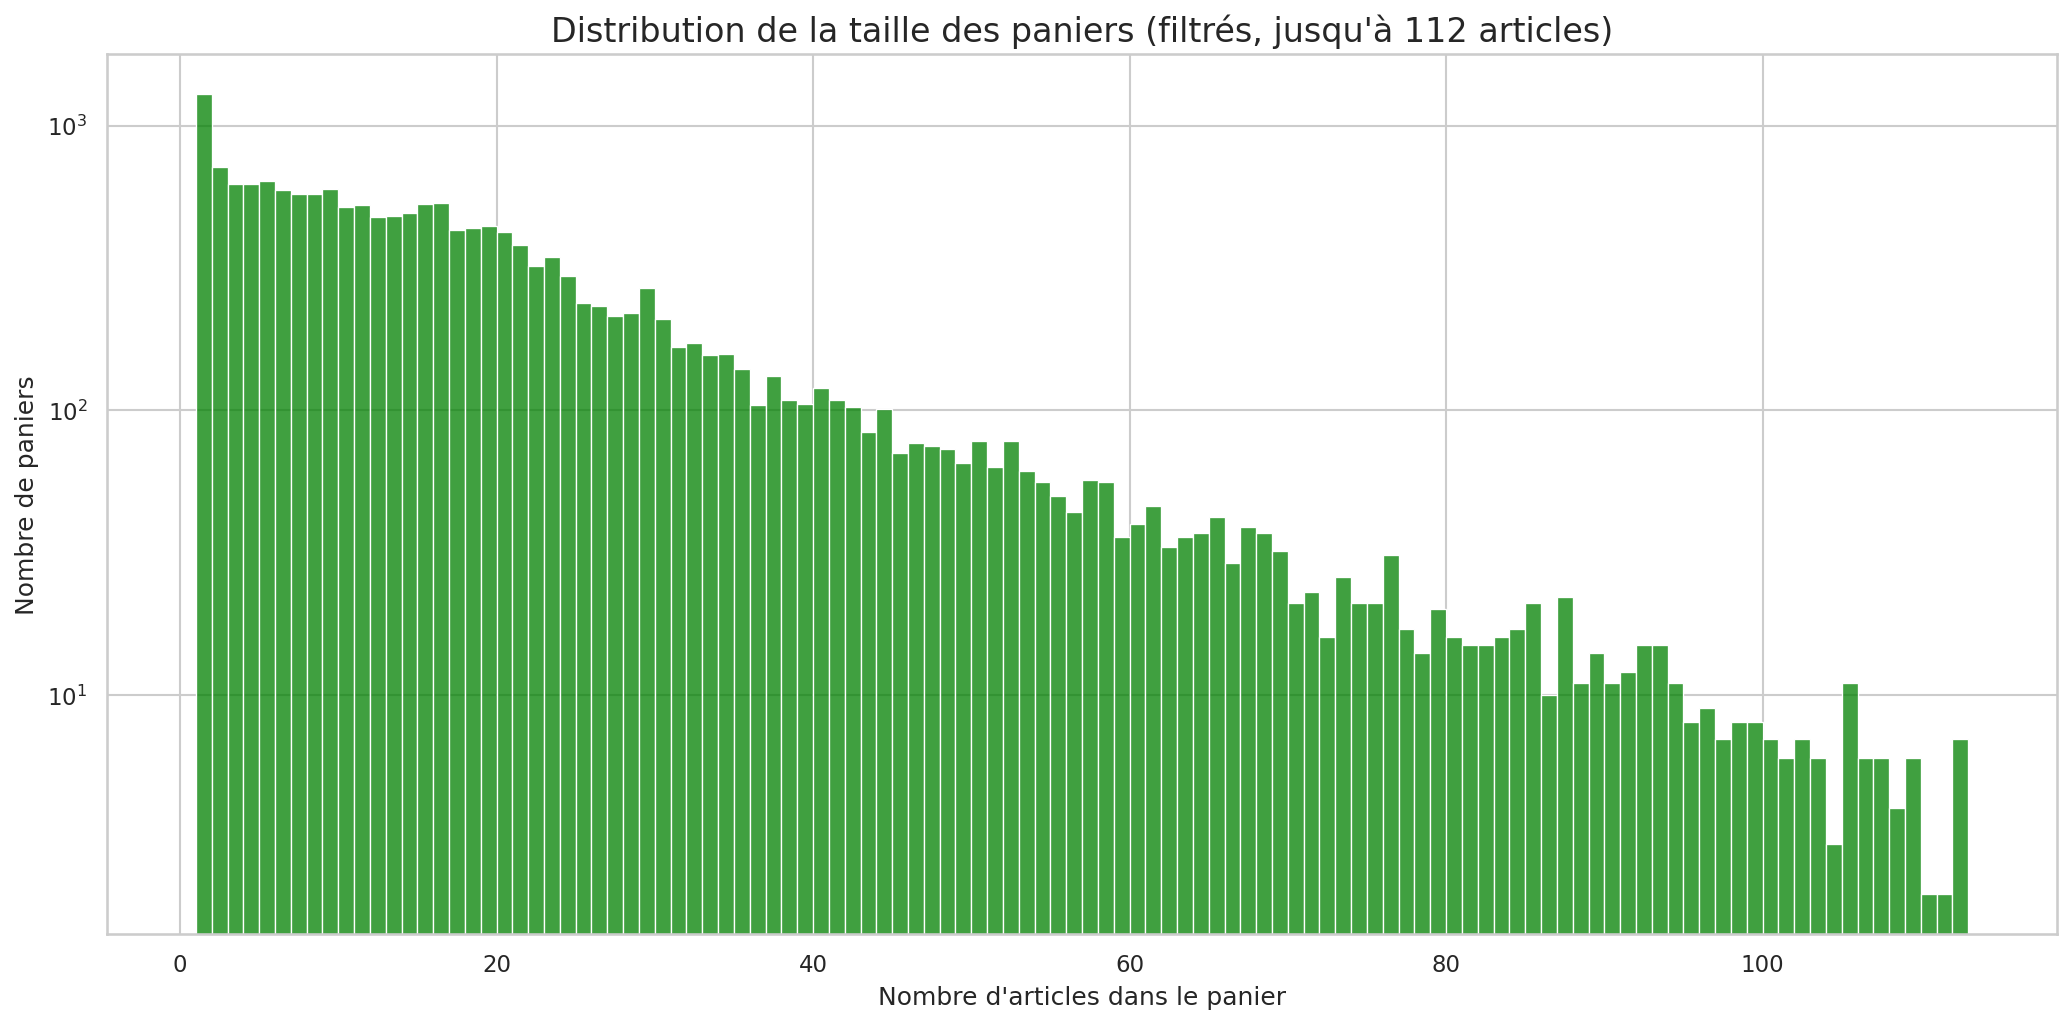
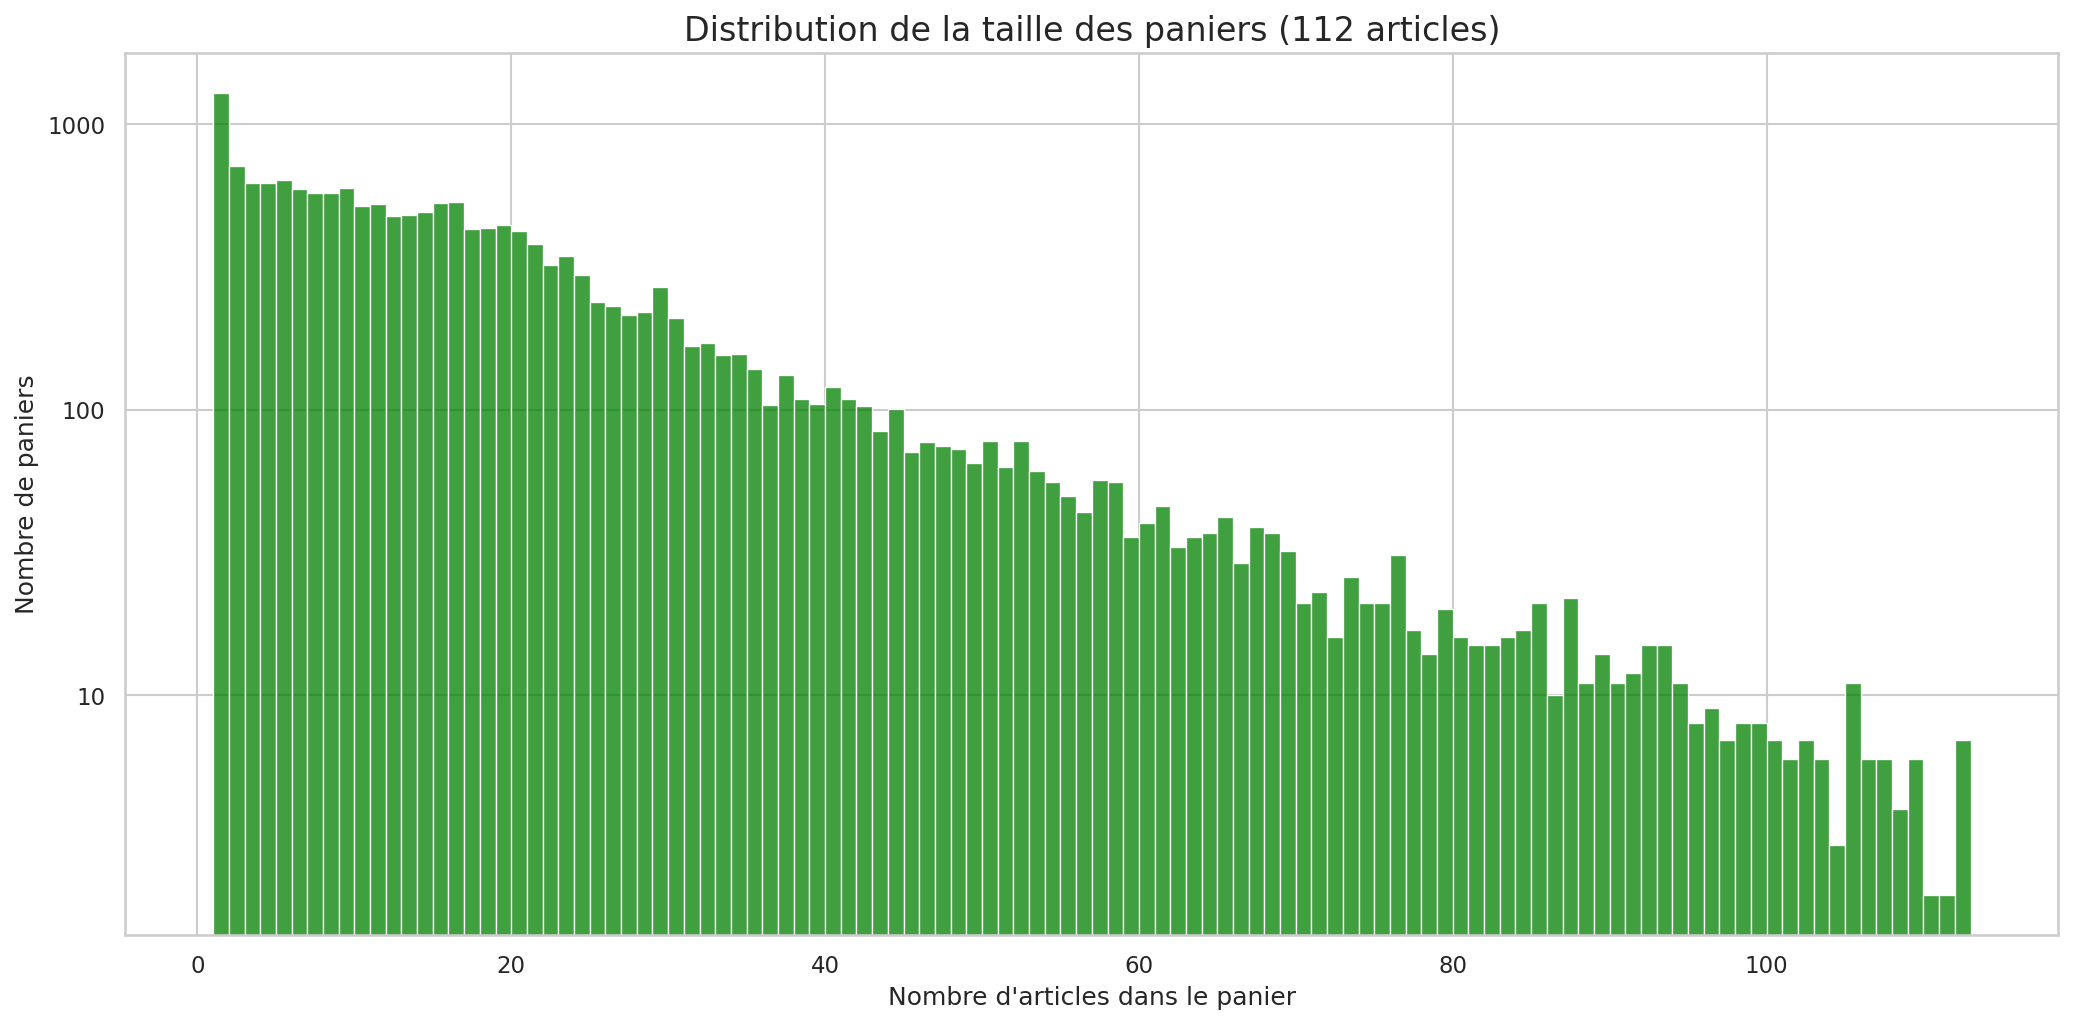
nouveau graphique

diff --git a/analyser_paniers.py b/analyser_paniers.py
@@ -2,7 +2,9 @@ import pandas as pd, matplotlib.pyplot as plt, seaborn as sns, sys, ast, os
 from mlxtend.preprocessing import TransactionEncoder
 from mlxtend.frequent_patterns import apriori, association_rules
 from datetime import timedelta
+from matplotlib.ticker import ScalarFormatter
 
+# changer les valeurs si besoin
 FILEPATH = 'dataset_baskets_dated.csv'
 OUTPUT_DIR = 'graphiques'
 os.makedirs(OUTPUT_DIR, exist_ok=True)
@@ -20,7 +22,7 @@ def clean_item_name(item_name):
 
 def load_and_clean_data(filepath: str):
     """Charge, nettoie et formate les données"""
-    print(f"\nChargement et nettoyage de {filepath}...")
+    print(f"\nChargement et nettoyage de {filepath}")
     df = pd.read_csv(filepath)
     print(f"{df.shape[0]} lignes chargées")
     
@@ -28,17 +30,12 @@ def load_and_clean_data(filepath: str):
     df.dropna(subset=['customer_id'], inplace=True)
     df['customer_id'] = df['customer_id'].astype(int)
 
-    # nettoyage dates
-    try:
-        # ns pour les timestamps
-        df['date'] = pd.to_datetime(df['date_trans'], unit='ns')
-        print('Conversion date_trans timestamp en datetime (unit=ns)')
-    except Exception as e:
-        print(f"Erreur conversion date: {e}")
-        df['date'] = pd.NaT
+    # nettoyage dates (ns pour les timestamps)
+    df['date'] = pd.to_datetime(df['date_trans'], unit='ns')
+    print("Conversion date_trans timestamp en datetime")
 
     # conversion de products en liste avec nettoyage
-    print('Conversion de products en liste...')
+    print("Conversion de products en liste")
     def safe_literal_eval_and_clean(item_str):
         try:
             items = ast.literal_eval(str(item_str))
@@ -56,17 +53,18 @@ def load_and_clean_data(filepath: str):
     initial_rows = df.shape[0]
     df = df[df['basket_size'] > 0]
     print(f"{initial_rows - df.shape[0]} paniers vides supprimés")
-    print(f"{df.shape[0]} paniers restants")
+    print(f"{df.shape[0]} paniers")
     print('-' * 50)
     return df
 
 def filter_and_get_all_items(df: pd.DataFrame):
     """Filtre les produits des listes et retourne la Series de tous les articles"""
-    print("Filtrage sémantique déb")
+    print("Filtrage début")
     
     all_items_series_full = df.explode('products_list')['products_list'].dropna()
     all_items_series_full = all_items_series_full[all_items_series_full.astype(str).str.strip() != '']
-    
+
+    # mots-clés à bannir (ajouter les noms suspects)
     junk_keywords = [
         'postage', 'manual', 'bank charges', 'cruk', 'samples', 
         'adjustment', 'return', 'amazon fee', 'discount', 
@@ -81,9 +79,9 @@ def filter_and_get_all_items(df: pd.DataFrame):
 
     # Serie des produits VALIDES
     all_items_series_valid = all_items_series_full[~all_items_series_full.isin(junk_items_set)]
-    print(f"{len(all_items_series_full) - len(all_items_series_valid)} de produits mauvais supprimées de la Series")
+    print(f"{len(all_items_series_full) - len(all_items_series_valid)} de produits mauvais bannis de la Series")
 
-    # MAJ le DataFrame
+    # MAJ de la DataFrame
     def filter_junk_from_list(item_list):
         return [item for item in item_list if item not in junk_items_set]
     
@@ -95,45 +93,17 @@ def filter_and_get_all_items(df: pd.DataFrame):
     # filtrer paniers vides
     initial_rows = df.shape[0]
     df = df[df['basket_size_filtered'] > 0].copy()
-    print(f"{initial_rows - df.shape[0]} paniers sont devenus vides après filtrage 'junk' et ont été supprimés.")
-    print(f"Il y a {df.shape[0]} paniers valides restants pour l'analyse.")
+    print(f"{initial_rows - df.shape[0]} paniers sont devenus vides après filtrage (supprimés)")
+    print(f"{df.shape[0]} paniers valides restants")
     print('-' * 50)
     
     return df, all_items_series_valid
 
-def print_global_stats(df: pd.DataFrame, all_items_series: pd.Series):
-    """Affiche les statistiques sur les données filtrées"""
-    print('statistiques descriptives')
-
-    nb_paniers = df['basket_id'].nunique()
-    nb_clients = df['customer_id'].nunique()
-    item_counts = all_items_series.value_counts()
-
-    print(f"Paniers uniques : {nb_paniers:,}")
-    print(f"Clients uniques : {nb_clients:,}")
-    print(f"Articles uniques : {len(item_counts):,}")
-    print(f"Articles vendus : {len(all_items_series):,}")
-
-    print('\nPruning')
-    pruning_stats = []
-    for support_pct in [5, 2, 1, .5, .2, .1]:
-        min_support = support_pct / 100
-        min_count = int(min_support * nb_paniers)
-        items_restants = (item_counts >= min_count).sum()
-        pruning_stats.append({
-            'Seuil (min_support)': f"{support_pct}%",
-            'Nb Paniers Min.': f"{min_count} paniers",
-            'Articles Restants': f"{items_restants} / {len(item_counts)}",
-            'Impact': f"{items_restants / len(item_counts):.1%}"
-        })
-    print(pd.DataFrame(pruning_stats).to_string(index=False))
-    print('-' * 50)
-
 def analyze_distributions(df: pd.DataFrame):
-    """Crée 4 graphiques"""
-    print('Analyse des distributions')
+    """Crée graphiques taille paniers, jour/heure, paniers par mois"""
+    print("Analyse des distributions pour les graphiques")
     
-    # paniers par mois
+    # 1. paniers par mois
     paniers_mensuels = df.set_index('date').resample('ME')['basket_id'].count()
     plt.figure(figsize=(14, 7))
     ax1 = paniers_mensuels.plot(kind='line', marker='o', color='royalblue')
@@ -145,7 +115,7 @@ def analyze_distributions(df: pd.DataFrame):
     plt.savefig(filepath_mois, dpi=150, bbox_inches='tight')
     plt.close()
 
-    # jour et heure
+    # 2. jour et heure
     df['weekday'] = df['date'].dt.day_name()
     df['hour'] = df['date'].dt.hour
     weekdays_order = ['Monday', 'Tuesday', 'Wednesday', 'Thursday', 'Friday', 'Saturday', 'Sunday']
@@ -159,17 +129,21 @@ def analyze_distributions(df: pd.DataFrame):
     plt.savefig(filepath_jour_heure, dpi=150, bbox_inches='tight')
     plt.close()
 
-    # taille des paniers
+    # 3. taille des paniers
     plt.figure(figsize=(14, 7))
     max_size = int(df['basket_size_filtered'].quantile(.99))
     ax4 = sns.histplot(data=df, x='basket_size_filtered', bins=range(1, max_size + 2), kde=False, color='green')
-    ax4.set_title(f"Distribution de la taille des paniers (filtrés, jusqu'à {max_size} articles)", fontsize=16)
+    ax4.set_title(f"Distribution de la taille des paniers ({max_size} articles)", fontsize=16)
     ax4.set_xlabel("Nombre d'articles dans le panier")
     ax4.set_ylabel('Nombre de paniers')
     ax4.set_yscale('log')
+
+    # valeurs entières sur l'axe Y
+    ax4.yaxis.set_major_formatter(ScalarFormatter())
+    ax4.ticklabel_format(style='plain', axis='y')
+    
     mean_size = df['basket_size_filtered'].mean()
     median_size = df['basket_size_filtered'].median()
-    print(f"Stats - taille des paniers: moyenne={mean_size:.2f}, médiane={median_size:.0f}")
     plt.tight_layout()
     filepath_taille = os.path.join(OUTPUT_DIR, '3_taille_des_paniers_filtres.png')
     plt.savefig(filepath_taille, dpi=150, bbox_inches='tight')
@@ -180,13 +154,11 @@ def analyze_popular_items(all_items_series: pd.Series):
     """Affiche top 20 + graphique à barres"""
     item_counts = all_items_series.value_counts()
     
-    print("\nTop 20 des articles les plus vendus :")
-    print(item_counts.head(20).to_string())
-    print('-' * 50)
+    print("\nTop 20 des articles les plus vendus")
 
     plt.figure(figsize=(14, 10))
     top_20_items = item_counts.head(20)
-    ax = sns.barplot(x=top_20_items.values, y=top_20_items.index, palette='viridis', orient='h')
+    ax = sns.barplot(x=top_20_items.values, y=top_20_items.index, hue=top_20_items.index, palette='viridis', orient='h', legend=False)
     ax.set_title('Top 20 des articles les plus populaires', fontsize=16)
     ax.set_xlabel('Nombre de ventes')
     ax.set_ylabel('Article')
@@ -197,100 +169,89 @@ def analyze_popular_items(all_items_series: pd.Series):
     plt.close()
     print('-' * 50)
 
-def analyze_customer_activity(df: pd.DataFrame, all_items_series: pd.Series):
-    """Affiche le Top 10 des clients"""
-    print("Analyse de l'activité client")
-    top_clients_baskets = df['customer_id'].value_counts().head(10).reset_index()
-    top_clients_baskets.columns = ['ID Client (Paniers)', 'Nb de Paniers']
-
-    df_exploded = df.explode('products_list_filtered')
-    top_clients_items = df_exploded['customer_id'].value_counts().head(10).reset_index()
-    top_clients_items.columns = ['ID Client (Articles)', "Nb d'Articles"]
-
-    top_clients_df = pd.concat([top_clients_baskets, top_clients_items], axis=1)
-    print("\nTop 10 clients (par Nb de Paniers vs Nb d'Articles) ")
-    print(top_clients_df.to_string(index=False))
-    print('-' * 50)
-
 def analyze_association_rules(df: pd.DataFrame, min_support=0.02, max_k=5, min_confidence=0.7):
     """Apriori + règles d'association"""
-
     transactions_list = df['products_list_filtered'].tolist()
-    print(f"{len(transactions_list)} paniers valides pour l'analyse Apriori.")
+    print(f"{len(transactions_list)} paniers pour Apriori")
 
     # encoder transactions en matrice SPARSE
     te = TransactionEncoder()
     try:
         # matrice sparse
         te_ary = te.fit(transactions_list).transform(transactions_list, sparse=True)
-        df_encoded = pd.DataFrame.sparse.from_spmatrix(te_ary, columns=te.columns_)
-    except TypeError:
+        df_encoded = pd.DataFrame(te_ary.toarray(), columns=te.columns_).astype(bool)
+    except (TypeError, AttributeError):
         # fallback (pb de version)
         te_ary = te.fit(transactions_list).transform(transactions_list)
         df_encoded = pd.DataFrame(te_ary, columns=te.columns_)
 
     # appliquer Apriori
-    print(f"Recherche des itemsets fréquents avec support >= {min_support}, Max_K = {max_k})...")
+    print(f"Recherche itemsets avec support >= {min_support} et max_k = {max_k}")
     frequent_itemsets = apriori(df_encoded, min_support=min_support, use_colnames=True, max_len=max_k)
-    
+    rules = association_rules(frequent_itemsets, metric='confidence', min_threshold=min_confidence)
+
     if frequent_itemsets.empty:
-        print(f"Aucun itemset trouvé avec un support >= {min_support}. Essayez un support plus bas.")
+        print(f"Aucun itemset avec un support >= {min_support}, (pt support plus bas)")
         print('-' * 50)
         return
 
-    # triez les 20 meilleurs itemsets
-    frequent_itemsets_sorted = frequent_itemsets.sort_values(by='support', ascending=False)
-    print("\nTop 20 des itemsets fréquents :")
-    print(frequent_itemsets_sorted.head(20).to_string(index=False))
-    print('-' * 50)
-
-    print(f"Création des règles d'association avec confiance >= {min_confidence})...")
-    rules = association_rules(frequent_itemsets, metric='confidence', min_threshold=min_confidence)
-
     if rules.empty:
-        print(f"aucune règle trouvée avec une confiance >= {min_confidence}.")
+        print(f"Aucune règle trouvée avec une confiance >= {min_confidence}")
         print('-' * 50)
         return
 
     # trier par lift
     rules_sorted = rules.sort_values(by='lift', ascending=False)
-
-    print("\nTop règles d'association par lift :")
-
     cols_to_show = ['antecedents', 'consequents', 'support', 'confidence', 'lift']
     print(rules_sorted[cols_to_show].head(20).to_string(index=False))
     print('-' * 50)
 
+    # graphique des règles d'association
+    top_rules = rules_sorted.head(15).copy()
+    if not top_rules.empty:
+        # formattage
+        top_rules['rule'] = top_rules.apply(
+            lambda row: f"{', '.join(row['antecedents'])} → {', '.join(row['consequents'])}", 
+            axis=1
+        )
+        
+        plt.figure(figsize=(14, 10))
+        ax = sns.barplot(data=top_rules,  x='lift',  y='rule',  hue='confidence', palette='RdYlGn', orient='h', legend=True)
+        ax.set_title('Top 15 des règles d\'association (par Lift)', fontsize=16)
+        ax.set_xlabel('Lift')
+        ax.set_ylabel("Règle")
+        plt.legend(title='Confiance', loc='lower right')
+        plt.tight_layout()
+        filepath_rules = os.path.join(OUTPUT_DIR, '5_regles_association.png')
+        plt.savefig(filepath_rules, dpi=150, bbox_inches='tight')
+        plt.close()
 
 if __name__ == "__main__":
     df_clean = load_and_clean_data(FILEPATH)
-
     if df_clean is not None:
         df_filtered, all_items_valid = filter_and_get_all_items(df_clean)
 
-        # tt les données (pour les graphiques et stats)
-        print_global_stats(df_filtered, all_items_valid)
+        # tt les données pour les graphiques
         analyze_distributions(df_filtered) 
         analyze_popular_items(all_items_valid)
-        analyze_customer_activity(df_filtered, all_items_valid)        
 
-        # "Dernière Heure" JUSTE pour les règles d'association
+        # Dernière heure JUSTE pour les règles d'association
         print("\nFiltrage pour règles d'association")
         if not df_filtered.empty:
             max_date = df_filtered['date'].max()
-            one_hour_ago = max_date - timedelta(hours=1)
-            print(f"Période analysée : {one_hour_ago} à {max_date}")
+            une_heure_avant = max_date - timedelta(hours=1)
+            print(f"Période analysée : {une_heure_avant} à {max_date}")
 
-            df_last_hour = df_filtered[df_filtered['date'] >= one_hour_ago].copy()
-            print(f"{df_last_hour.shape[0]} paniers conservés pour l'analyse MLxtend.")
+            df_derniere_heure = df_filtered[df_filtered['date'] >= une_heure_avant].copy()
+            print(f"{df_derniere_heure.shape[0]} paniers pour MLxtend")
 
             # support 2%, k=3 (taille max), confiance 80%
             analyze_association_rules(
-                df_last_hour, 
-                min_support=0.02, 
-                max_k=3, 
+                df_derniere_heure,
+                min_support=0.02,
+                max_k=3,
                 min_confidence=0.8
             )
         print('\nFIN')
     else:
-        print('impossible de charger ou de nettoyer les données', file=sys.stderr)
+        print('impossible de charger / nettoyer les données', file=sys.stderr)
